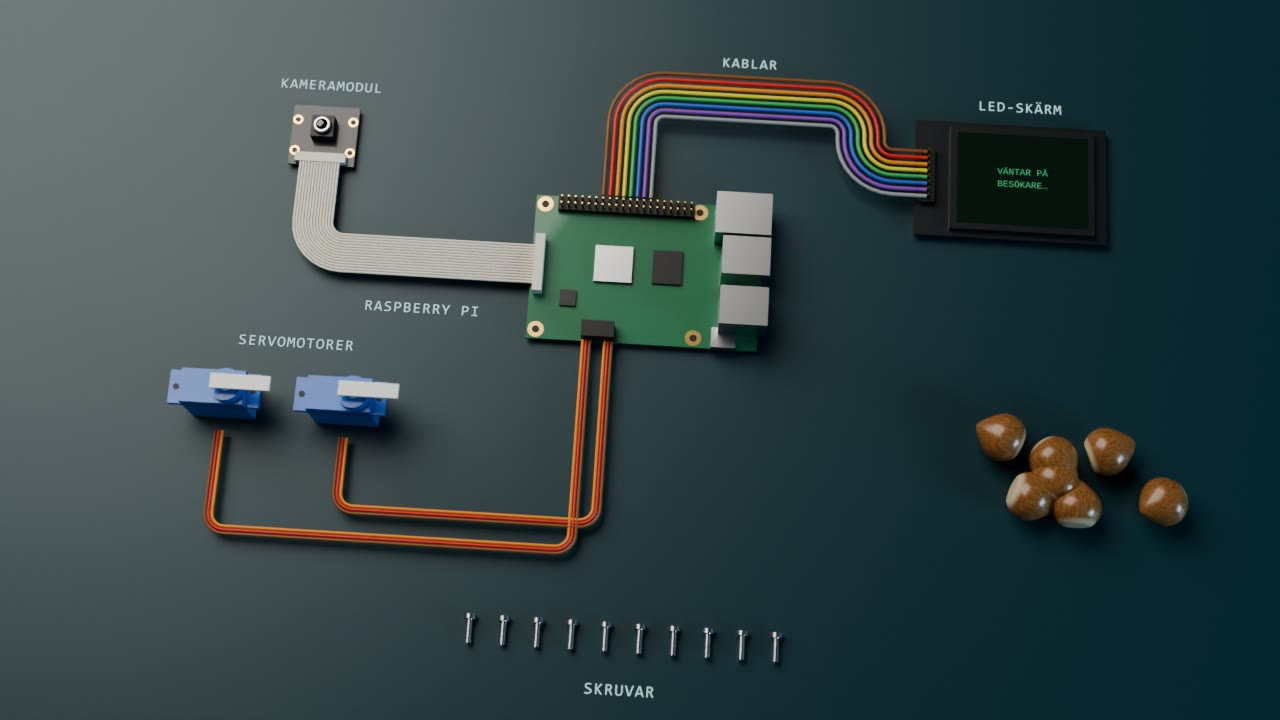
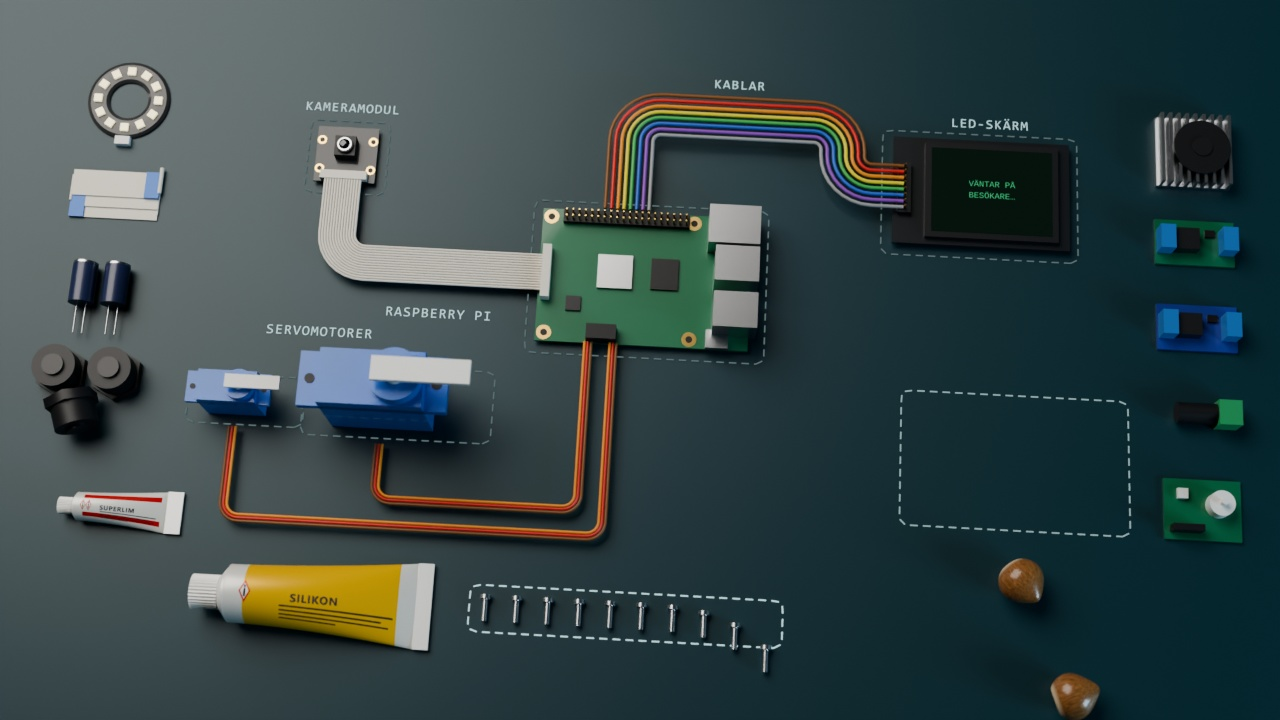
Trailern: inköpen med allt som köptes
Del 4 är omrenderad. Under "en hel del grejer" landar det som köptes
men inte nämns längs kanterna (ljusring, kamerakabel, kondensatorer,
kabelgenomföringar, superlim, silikon, kylare, spänningsomvandlare,
DC-kontakt, servotestare), och streckade konturer visar var
huvuddelarna ska ligga. Servona har olika storlek och filamentet finns
i fem färger.

diff --git a/trailer/storyboard/storyboard.html b/trailer/storyboard/storyboard.html
@@ -134,7 +134,7 @@ td:first-child { color: var(--fg); white-space: nowrap; font-family: var(--mono)
 <div class="wrap">
 
 <header class="top">
-  <div class="eyebrow">Storyboard v15 · vattenstämpel på det som väntar</div>
+  <div class="eyebrow">Storyboard v16 · inköpen med allt som köptes</div>
   <h1>Projekt <span>Lennart</span></h1>
   <p class="lead">En helt orimlig mängd teknik, redovisad med fullt allvar, för att en ekorre ska få äta sin nöt i fred.</p>
   <div class="facts">
@@ -410,8 +410,8 @@ const ACTS = [
   ['3.2','1:35','12 s','Huset reser sig ur ritningen','d2','cg','Presentera den färdiga designen.','Fönstret försvinner uppåt. Huset reser sig ur vyn ovanifrån mitt på ritningen, först i grå lera och sedan i färg: röd stuga med vita knutar. Måtten visas. Skärmen tänds.','Kameran sjunker från ovanifrån ner till trekvartsvy medan huset reser sig.','Full studioljussättning när färgen är på plats.','Huset växer uppåt ur pappret. Färgen stiger, måtten tänds och släcks.','Snabb panorering åt höger med rörelseoskärpa. Klippet göms i oskärpan och landar på den blå ytan i 4.1.','"Först en skiss, sen en ritning, och sen hade vi plötsligt en hel 3D-modell, redo för utskrift. En liten röd stuga med vita knutar, som jag har Claude att tacka för."','En stigande ton. Ett klingande ljud när skärmen tänds.','3D från GLB'],
  ]],
  ['4 · Inköpen', '1:47–2:03', 'Ny version, v4: blå bakgrund, en del per ord i din inspelning.', [
-  ['4.1','1:47','10 s','Uppläggningen','a3_1','cg','Varje del nämns i samma ögonblick som den landar.','Petroleumblå yta. Delarna glider in en i taget och får en etikett. Sladdarna växer fram i räta vinklar.','Snett uppifrån, nästan stilla.','En stor mjuk ljuskälla.','En del per ord, i röstens ordning: Raspberry Pi, kameramodul, LED-skärm, servomotorer, kablar, skruvar, nötter.','Kameran panorerar till filamentrullarna.','"Sen var det ju en hel del grejer som skulle köpas, såklart. En Raspberry Pi. En kameramodul. En LED-skärm. Servomotorer. Kablar. Skruvar. Och nötter."','Ett torrt klick per del. Nötterna får ett mjukare ljud.','3D. Komponenterna är generiska modeller, inte kopior av de inköpta delarna.'],
-  ['4.2','1:57','6 s','Filamentet','a3_2','cg','Bron till utskriften.','Filamentrullarna i husets färger. Kameran åker in mot den röda, som börjar snurra.','Inåkning till makro.','Kall kant från höger.','Rullen accelererar.','Kameran åker in i rullens svarta nav tills bilden är svart.','"Plus en massa filament i rätt färger. Claude satte ihop inköpslistan, och sen var det bara för mig och Lennart att hosta upp pengarna."','Ett surr som går över i skrivarens fläkt.','3D'],
+  ['4.1','1:47','10 s','Uppläggningen','a3_1','cg','Varje del nämns i samma ögonblick som den landar.','Petroleumblå yta. Under första meningen landar allt det andra som köptes längs kanterna: ljusring, kamerakabel, kondensatorer, kabelgenomföringar, superlim, silikon, kylare, spänningsomvandlare, DC-kontakt och servotestare. Samtidigt ritas streckade konturer upp i mitten där huvuddelarna ska ligga. Huvuddelarna glider sedan in en i taget i sina konturer och får en etikett. Sladdarna växer fram i räta vinklar.','Snett uppifrån, nästan stilla.','En stor mjuk ljuskälla.','Kanterna fylls under "en hel del grejer", en sak i taget med ett svagt tick. Sedan en huvuddel per ord, i röstens ordning: Raspberry Pi, kameramodul, LED-skärm, servomotorer (en mikroservo och en större), kablar, skruvar, nötter. Konturen lyser till när delen landar.','Kameran panorerar till filamentrullarna.','"Sen var det ju en hel del grejer som skulle köpas, såklart. En Raspberry Pi. En kameramodul. En LED-skärm. Servomotorer. Kablar. Skruvar. Och nötter."','Ett torrt klick per del. Nötterna får ett mjukare ljud.','3D. Komponenterna är generiska modeller, inte kopior av de inköpta delarna. Sakerna i kanterna är hämtade ur kvittot från elektronikbeställningen.'],
+  ['4.2','1:57','6 s','Filamentet','a3_2','cg','Bron till utskriften.','Fem filamentrullar, röd, grön, vit, grå och svart, glider in. Kameran landar över alla fem och åker sedan in mot den röda.','Inåkning till makro.','Kall kant från höger.','Rullen accelererar.','Kameran åker in i rullens svarta nav tills bilden är svart.','"Plus en massa filament i rätt färger. Claude satte ihop inköpslistan, och sen var det bara för mig och Lennart att hosta upp pengarna."','Ett surr som går över i skrivarens fläkt.','3D'],
  ]],
  ['5 · Utskriften', '2:03–2:16', 'Utskriftsväggen ligger in som platshållare med tre stillbilder. Byts mot dina riktiga timelapse-klipp.', [
   ['5.1','2:03','3 s','Lager för lager','12','cg','Bron från digitalt till fysiskt.','Stugans kropp halvvägs utskriven på skrivarens byggplatta. Den utskrivna delen har synliga lagerlinjer, det lager som skrivs just nu glöder vid munstycket, och resten av stugan syns som en svag genomskinlig förhandsvisning. Visar övergången från ritning till utskrift: modellen byggs upp ett tunt lager i taget.','Snett ovanifrån.','Sval och platt.','Planet stiger nerifrån och upp, som utskriften kommer att göra.','Munstycket glider in och lägger sig på planet.','"Och sen skrev jag ut allt."','En stigande ton som går över i fläkten.','Stillbild ur 3D från GLB, platshållare. Riktigt material: en skärminspelning från slicern (programmet som delar upp modellen i lager) eller ett närklipp på munstycket från skrivaren.'],
@@ -436,7 +436,7 @@ const FILM = {
  "1.1": "Ur del 1 v1, klippt efter din inspelning.", "1.2": "Ur del 1 v1, klippt efter din inspelning.", "1.3": "Ur del 1 v3. Namnskylten kommer tidigare och ligger kvar in i nästa klipp.", "1.4": "Ur del 1. Ny övergång i slutet: snabb panorering åt höger, dit Lennart tittar.",
  "2.1": "Ny version, v7: landar ur panoreringen från 1.4.", "2.2": "Ur v3, oförändrad.", "2.3": "Ur v3, oförändrad.", "2.4": "Ur v3, oförändrad.", "2.5": "Ny version, v5: nej-signalen slår ner i fatet, som snurrar ut med ett porslinsklirr.", "2.6": "Ny version, v6: nötterna vilar, kameran lyfter i slutet.",
  "6.1": "Första renderingen, v1.", "6.2": "Första renderingen, v1.", "6.3": "Första renderingen, v1.", "3.1": "Ny version, v5: börjar uppifrån mörkret.", "3.2": "Ny version, v4: snabb panorering i slutet.",
- "4.1": "Ny version, v5: landar ur panoreringen.", "4.2": "Ny version, v5: in i rullens nav i slutet.", "5.2": "Platshållare: utskriftsväggen med dina tre stillbilder.", "5.3": "Platshållare: utskriftsväggen med dina tre stillbilder."
+ "4.1": "Ny version, v6: konturer och allt det andra som köptes längs kanterna.", "4.2": "Ny version, v6: fem filamentfärger, in i den röda rullens nav i slutet.", "5.2": "Platshållare: utskriftsväggen med dina tre stillbilder.", "5.3": "Platshållare: utskriftsväggen med dina tre stillbilder."
 };
 // Scener som väntar på riktigt material (timelapse-klipp, film av huset). De får vattenstämpeln VÄNTAR PÅ MATERIAL här och i filmen.
 const VANTAR = ['5.1', '5.2', '5.3', '7.1', '7.2', '7.3', '7.4'];

diff --git a/trailer/film/akt_inkop.py b/trailer/film/akt_inkop.py
@@ -139,9 +139,9 @@ bpy.ops.mesh.primitive_plane_add(size=6, location=(0.3, 0, 0)); bpy.context.acti
 P = {}   # namn -> (objekt, viloplats, starttid, riktning in i bild)
 def place(key, obj, t0, frm): P[key] = (obj, Vector(obj.location), t0, Vector(frm))
 place('dator', computer((0, 0.008, 0)), T['pi'], (0, 0.45, 0)); label('dator', 'RASPBERRY PI', (-0.082, -0.012))
-place('kamera', camera_module((-0.125, 0.055, 0)), T['kamera'], (-0.4, 0, 0)); label('kamera', 'KAMERAMODUL', (-0.125, 0.075))
-SCR, SCR_P = screen((0.135, 0.052, 0)); place('skarm', SCR, T['skarm'], (0.4, 0, 0)); label('skarm', 'LED-SKÄRM', (0.139, 0.082))
-place('servo1', servo((-0.15, -0.05, 0)), T['servo'], (-0.4, 0, 0)); place('servo2', servo((-0.105, -0.05, 0)), T['servo'] + 0.2, (-0.4, 0, 0)); label('servo2', 'SERVOMOTORER', (-0.127, -0.028))
+place('kamera', camera_module((-0.125, 0.055, 0)), T['kamera'], (-0.4, 0, 0.3))   # in ovanfor sakerna i kanten; label('kamera', 'KAMERAMODUL', (-0.125, 0.075))
+SCR, SCR_P = screen((0.135, 0.052, 0)); place('skarm', SCR, T['skarm'], (0.4, 0, 0.3)); label('skarm', 'LED-SKÄRM', (0.139, 0.082))
+place('servo1', servo((-0.158, -0.05, 0)), T['servo'], (-0.4, 0, 0.3)); S2 = servo((-0.1, -0.048, 0)); S2.scale = (1.75, 1.75, 1.75); place('servo2', S2, T['servo'] + 0.2, (-0.4, 0, 0.3)); label('servo2', 'SERVOMOTORER', (-0.129, -0.022))   # en mikroservo och en storre
 label('kablar', 'KABLAR', (0.035, 0.094))
 for i in range(10): place('skruv%d' % i, screw((-0.054 + i * 0.012, -0.128, 0)), T['skruvar'] + i * 0.04, (0, -0.3, 0))
 label('skruv9', 'SKRUVAR', (0, -0.147))
@@ -166,16 +166,145 @@ n0.data.materials.append(nm)
 NUTP = [(0.0, 0.0, 35), (0.019, 0.004, 110), (-0.018, 0.007, 250), (0.008, -0.017, 180), (-0.011, -0.014, 70), (0.028, -0.013, 300), (-0.03, -0.008, 150)]
 for i, (dx, dy, rz) in enumerate(NUTP):
     n_ = n0 if i == 0 else link(bpy.data.objects.new('not%d' % i, n0.data)); n_.scale = (0.0085,) * 3; n_.rotation_euler = (math.radians(68 + (i * 37) % 30), 0, math.radians(rz)); n_.location = (0.15 + dx, -0.055 + dy, 0.008)
-    place('not%d' % i, n_, T['notter'] + i * 0.06, (0.3, 0, 0))
+    place('not%d' % i, n_, T['notter'] + i * 0.06, (0, -0.3, 0))   # nedifran, sa att de inte glider over sakerna i hogerkanten
 label('not6', 'NÖTTER', (0.15, -0.092))
-SPOOLS = [spool((0.5 + i * 0.215, 0.0, 0), c, 'rulle%d' % i) for i, c in enumerate([(0.635, 0.227, 0.172), (0.93, 0.92, 0.89), (0.35, 0.37, 0.38)])]
+# filamentet som kopts: rod, gron, vit, gra och svart. Den roda (stugans farg) ligger forst, och det ar i dess nav kameran aker in i slutet
+SPOOLS = [spool(p, c, 'rulle%d' % i) for i, (p, c) in enumerate([((0.5, 0.0, 0), (0.635, 0.227, 0.172)), ((0.72, 0.0, 0), (0.07, 0.38, 0.13)), ((0.61, 0.212, 0), (0.93, 0.92, 0.89)),
+                                                                  ((0.94, 0.0, 0), (0.13, 0.14, 0.15)), ((0.83, 0.212, 0), (0.025, 0.025, 0.028))])]
 for i, s_ in enumerate(SPOOLS): place('rulle%d' % i, s_, T['rullar'] + i * 0.3, (0.75, 0, 0))
-label('rulle0', 'FILAMENT', (0.5, -0.118))
+label('rulle0', 'FILAMENT', (0.72, -0.118))
+
+# ---------- "en hel del grejer": det som ocksa kopts men inte namns, generiska modeller langs bordets kanter. De landar under forsta meningen ----------
+def ljusring(loc):
+    e = empty('ljusring', loc); bpy.ops.mesh.primitive_torus_add(major_radius=0.0125, minor_radius=0.0045, major_segments=64, minor_segments=8, location=(0, 0, 0.0008)); o = bpy.context.active_object; o.scale = (1, 1, 0.16); o.data.materials.append(M['pcbk']); o.parent = e
+    led = mat('lysdiod', (0.95, 0.86, 0.55), 0.2, emit=(1.0, 0.85, 0.5))
+    for i in range(12): a = 2 * math.pi * i / 12; box(e, (0.0032, 0.0032, 0.0012), (0.0125 * math.cos(a), 0.0125 * math.sin(a), 0.0019), led, 0.0004, a)
+    box(e, (0.006, 0.0035, 0.0028), (0, -0.0185, 0.0016), M['white'], 0.0004)
+    return e
+def kamerakabel(loc):
+    e = empty('kamerakabel', loc); stark = mat('forstarkning', (0.05, 0.2, 0.65), 0.4)
+    for i in range(3):
+        box(e, (0.036, 0.011, 0.0005), (0, (i - 1) * 0.0045, 0.0004 + i * 0.0006), M['beige'], 0.0002)
+        cyl(e, 0.0003 + 0.0003 * i, 0.011, ((0.018 if i % 2 == 0 else -0.018), (i - 0.5) * 0.0045, 0.0007 + i * 0.0006), M['beige'], (math.pi / 2, 0, 0), 16)
+    box(e, (0.006, 0.0112, 0.0009), (-0.015, -0.0045, 0.0009), stark, 0.0002); box(e, (0.006, 0.0112, 0.0009), (0.015, 0.0045, 0.0021), stark, 0.0002)
+    return e
+KOND = mat('kondensator', (0.02, 0.03, 0.09), 0.35, coat=0.4)
+def kondensatorer(loc):
+    e = empty('kondensatorer', loc)
+    for k, x in enumerate((-0.0065, 0.0065)):
+        cyl(e, 0.005, 0.016, (x, 0, 0.005), KOND, (math.pi / 2, 0, 0)); cyl(e, 0.0049, 0.0012, (x, 0.0083, 0.005), M['steel'], (math.pi / 2, 0, 0))
+        for dx in (-0.0018, 0.0018): cyl(e, 0.0003, 0.012, (x + dx, -0.014, 0.004), M['steel'], (math.pi / 2, 0, 0), 12)
+    return e
+def kabelgenomforingar(loc):
+    e = empty('kabelgenomforingar', loc)
+    for x, y in ((-0.011, 0.007), (0.011, 0.007)): cyl(e, 0.0105, 0.004, (x, y, 0.002), M['blk'], verts=6); cyl(e, 0.0085, 0.009, (x, y, 0.0085), M['blk'], verts=32); cyl(e, 0.0042, 0.0016, (x, y, 0.0136), M['chip'], verts=32)
+    ligg = empty('liggande', (0.0, -0.014, 0.0105), e); ligg.rotation_euler = (math.pi / 2, 0, 0.35)
+    cyl(ligg, 0.0105, 0.004, (0, 0, -0.008), M['blk'], verts=6); cyl(ligg, 0.0085, 0.009, (0, 0, -0.0015), M['blk'], verts=32); cyl(ligg, 0.0042, 0.0016, (0, 0, 0.0036), M['chip'], verts=32)
+    return e
+# tuberna (superlim och silikon): vit tub som plattas ut mot en vikt ande, rafflad vit skruvkork, och en liten tryckt etikett utan marke
+def tubetikett(namn, falt, romber):   # etiketten runt tuben: ett fargat falt, roda varningsromber och gra smatext. Bildens x = langs tuben, y = runt tuben (0,25 = ovansidan)
+    import numpy as np
+    W_, H_ = 512, 256; px = np.ones((H_, W_, 4), np.float32); px[..., :3] = (0.9, 0.9, 0.88); yy, xx = np.mgrid[0:H_, 0:W_]
+    for (u0, u1, v0, v1, col) in falt: px[(xx >= u0 * W_) & (xx <= u1 * W_) & (yy >= v0 * H_) & (yy <= v1 * H_)] = (*col, 1)
+    for cx in romber:
+        cy = int(0.25 * H_); d = np.abs(xx - cx) + np.abs(yy - cy); R = 15
+        px[d <= R] = (0.95, 0.95, 0.93, 1); px[(d <= R) & (d >= R - 3)] = (0.8, 0.05, 0.04, 1)
+        px[(np.abs(xx - cx) <= 2) & (yy >= cy - 3) & (yy <= cy + 7)] = (0.02, 0.02, 0.02, 1); px[(np.abs(xx - cx) <= 2) & (yy >= cy - 8) & (yy <= cy - 5)] = (0.02, 0.02, 0.02, 1)
+    for r_, (x0, x1) in enumerate([(150, 450), (150, 420), (150, 440), (150, 300)]):    # smatext pa sidan mot kameran
+        y = int(0.31 * H_) + r_ * 6; px[(yy >= y) & (yy <= y + 1) & (xx >= x0) & (xx <= x1)] = (0.22, 0.22, 0.24, 1)
+    img = bpy.data.images.new(namn, W_, H_, alpha=True); img.pixels = px.ravel(); img.pack(); return img
+TUB_TYPSNITT = typsnitt('segoeuib.ttf', 'Helvetica.ttc', 'DejaVuSans-Bold.ttf')
+def tub(namn, loc, L, r, etikett, text, storlek, textfarg):
+    e = empty(namn, loc); N, S = 48, 28; vs, uvs, fs = [], [], []
+    for a_ in range(S + 1):
+        u = a_ / S; f = u ** 1.6; A, B = r * (1 + 0.5 * f), r * (1 - 0.9 * f); x = u * L
+        for b_ in range(N + 1):
+            th = 2 * math.pi * b_ / N; vs.append((x, A * math.cos(th), B * math.sin(th) + B)); uvs.append((u, b_ / N))
+    for a_ in range(S):
+        for b_ in range(N): k = a_ * (N + 1) + b_; fs.append((k, k + N + 1, k + N + 2, k + 1))
+    me = bpy.data.meshes.new(namn); me.from_pydata(vs, [], fs); me.uv_layers.new(); uv = me.uv_layers[0].data
+    for li, l in enumerate(me.loops): uv[li].uv = uvs[l.vertex_index]
+    for p in me.polygons: p.use_smooth = True
+    m = bpy.data.materials.new(namn + '_tub'); m.use_nodes = True; nt = m.node_tree; p = nt.nodes['Principled BSDF']; t = nt.nodes.new('ShaderNodeTexImage'); t.image = etikett
+    nt.links.new(t.outputs['Color'], p.inputs['Base Color']); p.inputs['Roughness'].default_value = 0.32; p.inputs['Metallic'].default_value = 0.15
+    me.materials.append(m); kropp = link(bpy.data.objects.new(namn + '_kropp', me)); kropp.parent = e
+    vit = mat(namn + '_vit', (0.9, 0.9, 0.88), 0.3, 0.15)
+    box(e, (0.006, 2 * r * 1.5, 0.0012), (L + 0.0025, 0, 0.0008 + r * 0.1), vit, 0.0004)                     # den vikta anden
+    bpy.ops.mesh.primitive_cone_add(vertices=48, radius1=r, radius2=r * 0.55, depth=r * 0.35, location=(-r * 0.17, 0, r), rotation=(0, -math.pi / 2, 0)); k = bpy.context.active_object; k.data.materials.append(vit); k.parent = e
+    for v in k.data.polygons: v.use_smooth = True
+    bpy.ops.mesh.primitive_cylinder_add(vertices=64, radius=r * 0.6, depth=r * 0.95, location=(-r * 0.35 - r * 0.47, 0, r), rotation=(0, math.pi / 2, 0)); c = bpy.context.active_object
+    for vi, v in enumerate(c.data.vertices):                                                                   # raffling: varannan kant lite indragen
+        if (vi // 2) % 2: v.co.x *= 0.92; v.co.y *= 0.92
+    c.data.materials.append(mat(namn + '_kork', (0.95, 0.95, 0.93), 0.45)); c.parent = e
+    # texten som sager vad det ar: platt text ovanfor tuben, projicerad ner pa den rundade ytan
+    cu = bpy.data.curves.new(namn + '_text', 'FONT'); cu.body = text; cu.font = TUB_TYPSNITT or cu.font; cu.size = storlek; cu.align_x = 'CENTER'; cu.align_y = 'CENTER'; cu.space_character = 1.05
+    cu.materials.append(mat(namn + '_textfarg', textfarg, 0.5)); to = link(bpy.data.objects.new(namn + '_text', cu)); to.parent = e; to.location = (0.47 * L, -0.0006 * r / 0.0055, 2 * r + 0.004)
+    bpy.context.view_layer.objects.active = to; to.select_set(True); bpy.ops.object.convert(target='MESH'); to = bpy.context.active_object; to.select_set(False)
+    sw = to.modifiers.new('ner', 'SHRINKWRAP'); sw.target = kropp; sw.wrap_method = 'PROJECT'; sw.use_project_z = True; sw.use_negative_direction = True; sw.use_positive_direction = False; sw.offset = 0.00012
+    return e
+SUPERLIM_ETIKETT = tubetikett('etikett_superlim', [(0.1, 0.92, 0.12, 0.17, (0.78, 0.06, 0.05)), (0.1, 0.92, 0.33, 0.38, (0.78, 0.06, 0.05))], [52, 84])
+SILIKON_ETIKETT = tubetikett('etikett_silikon', [(0.1, 0.9, 0.0, 1.0, (0.95, 0.74, 0.08))], [56])
+def superlim(loc): return tub('superlim', loc, 0.034, 0.0055, SUPERLIM_ETIKETT, 'SUPERLIM', 0.0042, (0.05, 0.05, 0.06))
+def silikon(loc): return tub('silikon', loc, 0.07, 0.011, SILIKON_ETIKETT, 'SILIKON', 0.0072, (0.05, 0.05, 0.06))
+def kylare(loc):
+    e = empty('kylare', loc); alu = mat('aluminium', (0.55, 0.56, 0.58), 0.35, 1.0); box(e, (0.03, 0.03, 0.002), (0, 0, 0.001), alu, 0.0003)
+    for i in range(9): box(e, (0.0012, 0.03, 0.006), (-0.0135 + i * 0.0034, 0, 0.005), alu, 0.0001)
+    cyl(e, 0.0115, 0.0012, (0.002, 0, 0.0084), M['blk']); cyl(e, 0.004, 0.0014, (0.002, 0, 0.0088), M['chip'])
+    return e
+def omvandlare(loc, col):
+    e = empty('omvandlare', loc); pcb = mat('omv%.2f' % col[2], col, 0.4, coat=0.5); box(e, (0.032, 0.019, 0.0014), (0, 0, 0.0007), pcb, 0.0003)
+    box(e, (0.009, 0.009, 0.0055), (-0.004, 0, 0.0042), M['chip'], 0.0008); box(e, (0.004, 0.003, 0.001), (0.006, 0.004, 0.0019), M['chip'], 0.0002)
+    for x in (-0.0125, 0.0125): box(e, (0.006, 0.01, 0.0075), (x, 0, 0.0052), mat('plint', (0.03, 0.18, 0.5), 0.4), 0.0005)
+    return e
+def dckontakt(loc):
+    e = empty('dckontakt', loc); cyl(e, 0.0042, 0.016, (-0.004, 0, 0.0042), M['blk'], (0, math.pi / 2, 0)); box(e, (0.009, 0.01, 0.009), (0.008, 0, 0.0045), mat('gronplint', (0.05, 0.32, 0.12), 0.45), 0.0006)
+    return e
+def servotestare(loc):
+    e = empty('servotestare', loc); box(e, (0.03, 0.024, 0.0014), (0, 0, 0.0007), M['pcb'], 0.0003); cyl(e, 0.005, 0.006, (0.006, 0.002, 0.0044), M['white']); cyl(e, 0.0012, 0.0045, (0.006, 0.002, 0.0085), M['white'])
+    box(e, (0.012, 0.0026, 0.006), (-0.007, -0.008, 0.0044), M['blk'], 0.0002); box(e, (0.004, 0.004, 0.002), (-0.008, 0.006, 0.0024), M['white'], 0.0004)
+    return e
+GREJER = [('ljusring', ljusring((-0.218, 0.075, 0)), -1), ('kamerakabel', kamerakabel((-0.218, 0.033, 0)), -1), ('kondensatorer', kondensatorer((-0.218, -0.007, 0)), -1),
+          ('kylare', kylare((0.222, 0.075, 0)), 1), ('omvandlare1', omvandlare((0.222, 0.036, 0), (0.012, 0.16, 0.07)), 1), ('omvandlare2', omvandlare((0.222, 0.0, 0), (0.02, 0.05, 0.3)), 1),
+          ('kabelgenomforingar', kabelgenomforingar((-0.218, -0.05, 0)), -1), ('dckontakt', dckontakt((0.224, -0.036, 0)), 1), ('servotestare', servotestare((0.222, -0.074, 0)), 1),
+          ('superlim', superlim((-0.214, -0.097, 0)), -1), ('silikon', silikon((-0.15, -0.128, 0)), -1)]
+for i, (key, obj, sida) in enumerate(GREJER): place(key, obj, 0.6 + 0.2 * i, (0.3 * sida, 0, 0))
 
 wires([(-0.125, 0.044), (-0.125, 0.008), (-0.0415, 0.008)], [(i - 6.5) * 0.0011 for i in range(14)], 0.00052, [M['beige']] * 14, 0.0052, T['kablar'], T['kablar'] + 0.6, 0.012)        # kamerans flatkabel
 wires([(0.103, 0.052), (0.078, 0.052), (0.078, 0.078), (-0.0085, 0.078), (-0.0085, 0.036)], [(i - 3.5) * 0.00254 for i in range(8)], 0.00075, RAINBOW, 0.0068, T['kablar'] + 0.1, T['kablar'] + 0.8, 0.012)   # skarmens ledare
-wires([(-0.15, -0.062), (-0.15, -0.098), (-0.02, -0.098), (-0.02, -0.02)], [(i - 1) * 0.0013 for i in range(3)], 0.00058, SERVOW, 0.0052, T['kablar'] + 0.15, T['kablar'] + 0.8)
-wires([(-0.105, -0.062), (-0.105, -0.088), (-0.012, -0.088), (-0.012, -0.02)], [(i - 1) * 0.0013 for i in range(3)], 0.00058, SERVOW, 0.0052, T['kablar'] + 0.25, T['kablar'] + 0.85)
+wires([(-0.158, -0.062), (-0.158, -0.098), (-0.011, -0.098), (-0.011, -0.02)], [(i - 1) * 0.0013 for i in range(3)], 0.00058, SERVOW, 0.0052, T['kablar'] + 0.15, T['kablar'] + 0.8)   # yttre sladden till den yttre stiften, sa att de inte korsar varandra
+wires([(-0.1, -0.066), (-0.1, -0.088), (-0.021, -0.088), (-0.021, -0.02)], [(i - 1) * 0.0013 for i in range(3)], 0.00058, SERVOW, 0.0052, T['kablar'] + 0.25, T['kablar'] + 0.85)
+
+# ---------- konturer: under den forsta meningen ritas en streckad kontur upp dar varje del ska landa. Nar delen landar lyser konturen till och tonar ner ----------
+bpy.context.view_layer.update()
+def fotavtryck(keys, pad=0.004):
+    ps = [c.matrix_world @ Vector(v) for k in keys for c in [P[k][0]] + list(P[k][0].children_recursive) if c.type == 'MESH' for v in c.bound_box]
+    return min(p.x for p in ps) - pad, min(p.y for p in ps) - pad, max(p.x for p in ps) + pad, max(p.y for p in ps) + pad
+def kontur(namn, rect, r=0.003, streck=0.003, lucka=0.002, bredd=0.0006):
+    x0, y0, x1, y1 = rect; pts = []
+    for cx, cy, a0 in ((x1 - r, y0 + r, -90), (x1 - r, y1 - r, 0), (x0 + r, y1 - r, 90), (x0 + r, y0 + r, 180)):   # rundade horn, moturs
+        for i in range(7): a = math.radians(a0 + 15 * i); pts.append(Vector((cx + r * math.cos(a), cy + r * math.sin(a))))
+    pts.append(pts[0]); L = [0.0]
+    for i in range(1, len(pts)): L.append(L[-1] + (pts[i] - pts[i - 1]).length)
+    def at(s):
+        for i in range(1, len(pts)):
+            if L[i] >= s: u = (s - L[i - 1]) / max(L[i] - L[i - 1], 1e-9); return pts[i - 1].lerp(pts[i], u)
+        return pts[-1]
+    vs, fs, uvs = [], [], []; s = 0.0
+    while s < L[-1] - 1e-6:
+        e = min(s + streck, L[-1]); a, b = at(s), at(e); d = (b - a).normalized() if (b - a).length > 1e-9 else Vector((1, 0)); n = Vector((-d.y, d.x)) * bredd / 2
+        k = len(vs); vs += [(a.x - n.x, a.y - n.y, 0.00025), (b.x - n.x, b.y - n.y, 0.00025), (b.x + n.x, b.y + n.y, 0.00025), (a.x + n.x, a.y + n.y, 0.00025)]; fs.append((k, k + 1, k + 2, k + 3))
+        uvs += [s / L[-1]] * 4; s = e + lucka
+    me = bpy.data.meshes.new(namn); me.from_pydata(vs, [], fs); me.uv_layers.new(); uv = me.uv_layers[0].data
+    for i, l in enumerate(me.loops): uv[i].uv = (uvs[l.vertex_index], 0)
+    m = bpy.data.materials.new(namn); m.use_nodes = True; nt = m.node_tree; nt.nodes.remove(nt.nodes['Principled BSDF']); outp = nt.nodes['Material Output']
+    em = nt.nodes.new('ShaderNodeEmission'); em.inputs['Color'].default_value = (0.55, 0.8, 0.82, 1); tr = nt.nodes.new('ShaderNodeBsdfTransparent'); mx = nt.nodes.new('ShaderNodeMixShader')
+    tc = nt.nodes.new('ShaderNodeUVMap'); sx = nt.nodes.new('ShaderNodeSeparateXYZ'); lt = nt.nodes.new('ShaderNodeMath'); lt.operation = 'LESS_THAN'; lt.inputs[1].default_value = 0.0
+    nt.links.new(tc.outputs['UV'], sx.inputs[0]); nt.links.new(sx.outputs['X'], lt.inputs[0]); nt.links.new(lt.outputs[0], mx.inputs['Fac']); nt.links.new(tr.outputs[0], mx.inputs[1]); nt.links.new(em.outputs[0], mx.inputs[2]); nt.links.new(mx.outputs[0], outp.inputs['Surface'])
+    me.materials.append(m); link(bpy.data.objects.new(namn, me)); return lt.inputs[1], em.inputs['Strength']
+KONTURER = []   # (hur langt den ritats, styrka, tid da den borjar ritas, tid da delen landar)
+for i, (keys, t_land) in enumerate([(['dator'], T['pi']), (['kamera'], T['kamera']), (['skarm'], T['skarm']), (['servo1'], T['servo']), (['servo2'], T['servo'] + 0.2),
+                                    (['skruv%d' % j for j in range(10)], T['skruvar']), (['not%d' % j for j in range(7)], T['notter'])]):
+    KONTURER.append((*kontur('kontur%d' % i, fotavtryck(keys)), 0.55 + 0.32 * i, t_land + 0.45))
 
 def light(loc, target, power, size, col):
     d = bpy.data.lights.new('l', 'AREA'); d.energy = power; d.size = size; d.color = col; o = link(bpy.data.objects.new('l', d)); o.location = loc
@@ -192,11 +321,17 @@ def state(t):
         for c in [o] + list(o.children_recursive): c.hide_render = not vis
         if key in LABELS: LABELS[key].hide_render = t < t0 + 0.3
     LABELS['kablar'].hide_render = t < T['kablar'] + 0.3
+    for ritad, styrka, t0, t_land in KONTURER:
+        ritad.default_value = 1.001 * out(t, t0, t0 + 0.8, 2.0)                                    # strecken ritas runt konturen
+        blink = math.exp(-max(0.0, t - t_land) * 6.0) if t >= t_land else 0.0                      # lyser till nar delen landar
+        styrka.default_value = 0.55 * (1 - 0.6 * sm(t, t_land, t_land + 0.8)) + 2.2 * blink
     for o, t0, t1 in WIRES: o.data.bevel_factor_end = sm(t, t0, t1); o.hide_render = t <= t0
     SCR_P.inputs['Emission Strength'].default_value = 2.0 * sm(t, T['kablar'] + 0.8, T['kablar'] + 1.1)
     for i, s in enumerate(SPOOLS): s.rotation_euler = (0, 0, -3.0 * (1 - out(t, T['rullar'] + i * 0.3, T['rullar'] + 0.9 + i * 0.3)) + (2.2 * max(0, t - T['snurr']) ** 2 if i == 0 else 0))
     pan = sm(t, *T['pan']); push = sm(t, T['push'], END)
-    tgt = mix((0.0, -0.025, 0.0), (0.5, 0.0, 0.03), pan); eye = mix(mix((0.0, -0.2, 0.66), (0.5, -0.3, 0.62), pan), (0.5, -0.215, 0.2), push) + Vector((0.02 * t / END, 0, -0.03 * out(t, 0, T['pan'][0], 1.5) * (1 - push)))
+    vid = 1.13 - 0.05 * sm(t, 0.0, T['pan'][0]); e0 = Vector((0.0, -0.025, 0.0)) + Vector((0.0, -0.175, 0.66)) * vid
+    # panoreringen landar over alla fem rullarna, sedan aker kameran in mot den roda
+    tgt = mix(mix((0.0, -0.025, 0.0), (0.7, 0.06, 0.03), pan), (0.5, 0.0, 0.03), push); eye = mix(mix(e0, (0.7, -0.43, 0.98), pan), (0.5, -0.215, 0.2), push) + Vector((0.02 * t / END, 0, -0.03 * out(t, 0, T['pan'][0], 1.5) * (1 - push)))
     hub = Vector((0.5, 0.009, 0.0625)); dive = min(1.0, max(0.0, (t - (END - 0.75)) / 0.71)) ** 2.2     # overgang ut: in i rullens svarta nav tills bilden ar svart
     if dive > 0: eye = mix(eye, hub + (eye - hub).normalized() * 0.014, dive); tgt = mix(tgt, hub, dive)
     CAM.location = eye; CAM.rotation_euler = (tgt - eye).to_track_quat('-Z', 'Y').to_euler(); cam_d.dof.aperture_fstop = 5.6 - 2.8 * push; cam_d.dof.focus_distance = (tgt - eye).length

diff --git a/trailer/film/verktyg/panorering_41.py b/trailer/film/verktyg/panorering_41.py
@@ -1,0 +1,12 @@
+# Overgangen 3.2 -> 4.1: de forsta sju rutorna i del 4 landar ur en snabb panorering (innehallet glider at hoger och bromsar in).
+# Bilden flyttas i sidled (kanterna fylls ut med sina egna pixlar) och far riktningsoskarpa som avtar. Samma panorering som slutet av 3.2.
+# Kor:  python panorering_41.py <mapp med renderade rutor> <ut-mapp>   (rutorna 0000-0006 skrivs till ut-mappen, ovriga kopieras)
+import os, sys, shutil, subprocess
+src, dst = sys.argv[1:3]; os.makedirs(dst, exist_ok=True)
+for f in sorted(os.listdir(src)):
+    if f.endswith('.jpg'): shutil.copyfile(os.path.join(src, f), os.path.join(dst, f))
+for k in range(7):
+    a = ((7 - k) / 7) ** 2; sh = round(400 - a * 380); r = max(1, round(a * 170)); f = '%04d.jpg' % k
+    vf = 'pad=2080:720:400:0,fillborders=left=400:right=400:mode=smear,crop=1280:720:%d:0,dblur=angle=0:radius=%d,eq=brightness=%.4f' % (sh, r, -0.03 * a)
+    subprocess.run(['ffmpeg', '-v', 'error', '-y', '-i', os.path.join(src, f), '-vf', vf, '-q:v', '2', os.path.join(dst, f)], check=True)
+    print('ruta', k, 'forskjutning', 400 - sh, 'oskarpa', r, flush=True)

diff --git a/TOKENS.md b/TOKENS.md
@@ -19,7 +19,7 @@ Metoden anger hur siffran togs fram: *exakt* (avläst i verktyget) eller *uppska
 | 2026-11-15 (kväll, livebild) | Publik livebild på lennart.cam (bilder bara när någon tittar), adminvy bakom inloggning med inställningar och av-knapp, Pi-appen skickar 640 × 360 i 2 bilder/s. Testat lokalt och mot riktiga lennart.cam. | ca 5–10 miljoner in, ca 0,08 miljoner ut [osäkert] | Uppskattat: ca 40 modellanrop × 130 000–240 000 tokens kontext. Ut uppskattat ur mängden skriven kod och text. | 0 | Ingen lokal modell användes |
 | 2026-11-15 (kväll, admin) | Felsökning av inloggningen i adminvyn: tolerans för mellanslag och citattecken, fingeravtryck i loggen, test i riktig webbläsare, besökarens adress bakom Cloudflare | ca 3–6 miljoner in, ca 0,03 miljoner ut [osäkert] | Uppskattat: ca 20 modellanrop × 150 000–260 000 tokens kontext | 0 | Ingen lokal modell användes |
 | 2026-11-15 (kväll, rotation och servon) | Kamerans rotation och servostyrning i adminvyn: kommandon och inställningar via Pi:ns väntande anrop, egen drivrutin för PCA9685, kopplingsguide för servona, rättning av dolda bilder i stilmallen. Testat med låtsashårdvara och i Chromium. | ca 6–12 miljoner in, ca 0,1 miljoner ut [osäkert] | Uppskattat: ca 40 modellanrop × 160 000–280 000 tokens kontext. Ut uppskattat ur mängden skriven kod och text. | 0 | Ingen lokal modell användes |
-| 2026-11-14 – 2026-11-16 | Trailern, Claude Code i Claude-appen på Windows (lokal session): storyboard, alla 3D-scener i Blender, Marcus röst bearbetad och lagd mot klippen, musik och ljudeffekter, övergångar, flytt av filmprojektet till repot, övergången från Lennart till planen | ca 213,5 miljoner in, varav 211,3 miljoner cacheläsning och 2,2 miljoner cacheskrivning, och 0,96 miljoner ut | Exakt ur sessionsloggen fram till 2026-11-16 08.09 UTC: summan av `usage`-fälten för 703 modellanrop (Claude Fable 5.2 och Claude Opus 5.5), räknat en gång per svar. Arbetet efter den tidpunkten ingår inte. | ej räknat | Whisper medium kördes lokalt för att skriva ut rösten (ca 2,5 minuter ljud). Whisper räknar inte tokens på samma sätt, och antalet loggades inte. |
+| 2026-11-14 – 2026-11-16 | Trailern, Claude Code i Claude-appen på Windows (lokal session): storyboard, alla 3D-scener i Blender, Marcus röst bearbetad och lagd mot klippen, musik och ljudeffekter, övergångar, flytt av filmprojektet till repot, övergången från Lennart till planen, vattenstämpeln och inköpen | ca 268,4 miljoner in, varav 266,0 miljoner cacheläsning och 2,4 miljoner cacheskrivning, och 1,09 miljoner ut | Exakt ur sessionsloggen fram till 2026-11-16 11.54 UTC: summan av `usage`-fälten för 841 modellanrop (Claude Fable 5.2 och Claude Opus 5.5), räknat en gång per svar. Arbetet efter den tidpunkten ingår inte. | ej räknat | Whisper medium kördes lokalt för att skriva ut rösten (ca 2,5 minuter ljud). Whisper räknar inte tokens på samma sätt, och antalet loggades inte. |
 | 2026-11-15 | Kort Claude Code-session i samma mapp: försök att snygga till en timelapse av utskriften med Higgsfield [verifiera vad som blev gjort] | ca 7,0 miljoner in, varav 6,9 miljoner cacheläsning, och 0,03 miljoner ut | Exakt ur sessionsloggen: summan av `usage`-fälten för 50 modellanrop (Claude Opus 5.5) | 0 | Ingen lokal modell användes |
 
 ## Utanför tokenräkningen

diff --git a/trailer/film/LAGE.md b/trailer/film/LAGE.md
@@ -21,7 +21,7 @@ Senast uppdaterad 2026-11-16. Skriven för att arbetet ska kunna fortsätta på 
 | 1 Lennart | Riktiga mobilklipp | Klar. Klipp 1.4 slutar med en snabb panorering åt höger. |
 | 2 Problemet och planen | Fat, skata, kamera i sladd, moln, ja och nej | Klar. Landar ur panoreringen från 1.4, fatet snurrar vid nej, nötterna vilar på riktigt. |
 | 3 Designen | Claude-fönstret ritar huset, huset reser sig | Klar |
-| 4 Inköpen | Komponenterna på blå yta, filamentet | Klar |
+| 4 Inköpen | Komponenterna på blå yta, filamentet | Klar. Allt annat som köptes landar längs kanterna, konturer visar var huvuddelarna ska ligga, fem filamentfärger. |
 | 5 Utskriften | Lager för lager (5.1) och utskriftsväggen (5.2–5.3) | 5.1 är en stillbild ur 3D. Väggen visar platshållare tills de riktiga timelapse-klippen finns. |
 | 6 Monteringen | Sprängskiss, delarna hittar hem | Första renderingen. Elektroniken från inköpen saknas. |
 | 7 På riktigt | Huset ute, fågel nekas, Lennart får en nöt | Väntar på riktig film. Stillbilder tills dess. |
@@ -63,5 +63,6 @@ Scener som väntar på riktigt material står i listan `VANTAR` i `storyboard/st
 - **Musiken:** viker i mellanregistret när rösten talar (`sidechaincompress` per band).
 - **Effekterna:** syntetiseras i `verktyg/effekter.py`, eller hämtas ur Kenneys ljudpaket (CC0). Tiderna står i `FX` i `ljudmix.mjs`, räknat från varje klipps början.
 - **Panoreringen 1.4 → 2.1:** `akt_plan.py` vrider kameran åt vänster i början av 2.1 (`PAN_GRAD`, `PAN_TID`) och `verktyg/panorering_14.py` lägger på rörelseoskärpan och bygger de sista åtta rutorna i 1.4. Ändras början av 2.1 ska skriptet köras om.
+- **Inköpen:** sakerna i kanterna av 4.1 och de fem filamentfärgerna kommer från kvittot och Marcus egen lista. Alla delar är generiska modeller. Panoreringen in från 3.2 läggs på de första sju rutorna med `verktyg/panorering_41.py` efter renderingen.
 - **Nötterna:** platserna räknas fram mot modellens riktiga form (`verktyg/notmagasin.py`, `verktyg/notfat.py`).
 - **Bildrutor:** när bara en del av en scen ändras renderas bara de bildrutorna om. Bildrutorna finns inte i repot, så ta fram de övriga ur scenens mp4 med `ffmpeg -i "Lennart - del 3 designen v5.mp4" ut/%04d.jpg` först.
